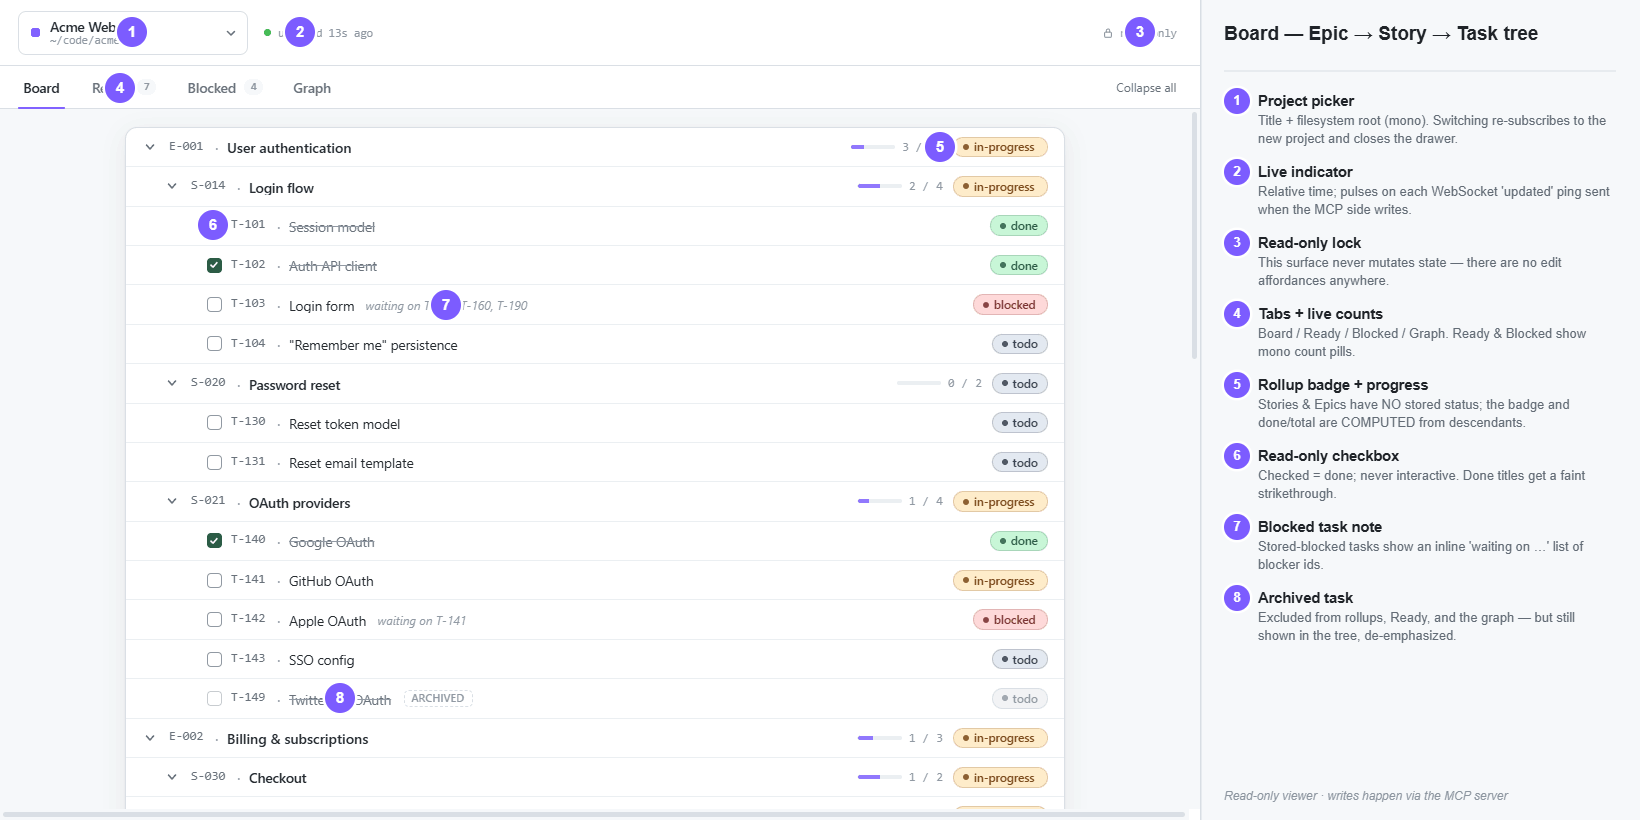
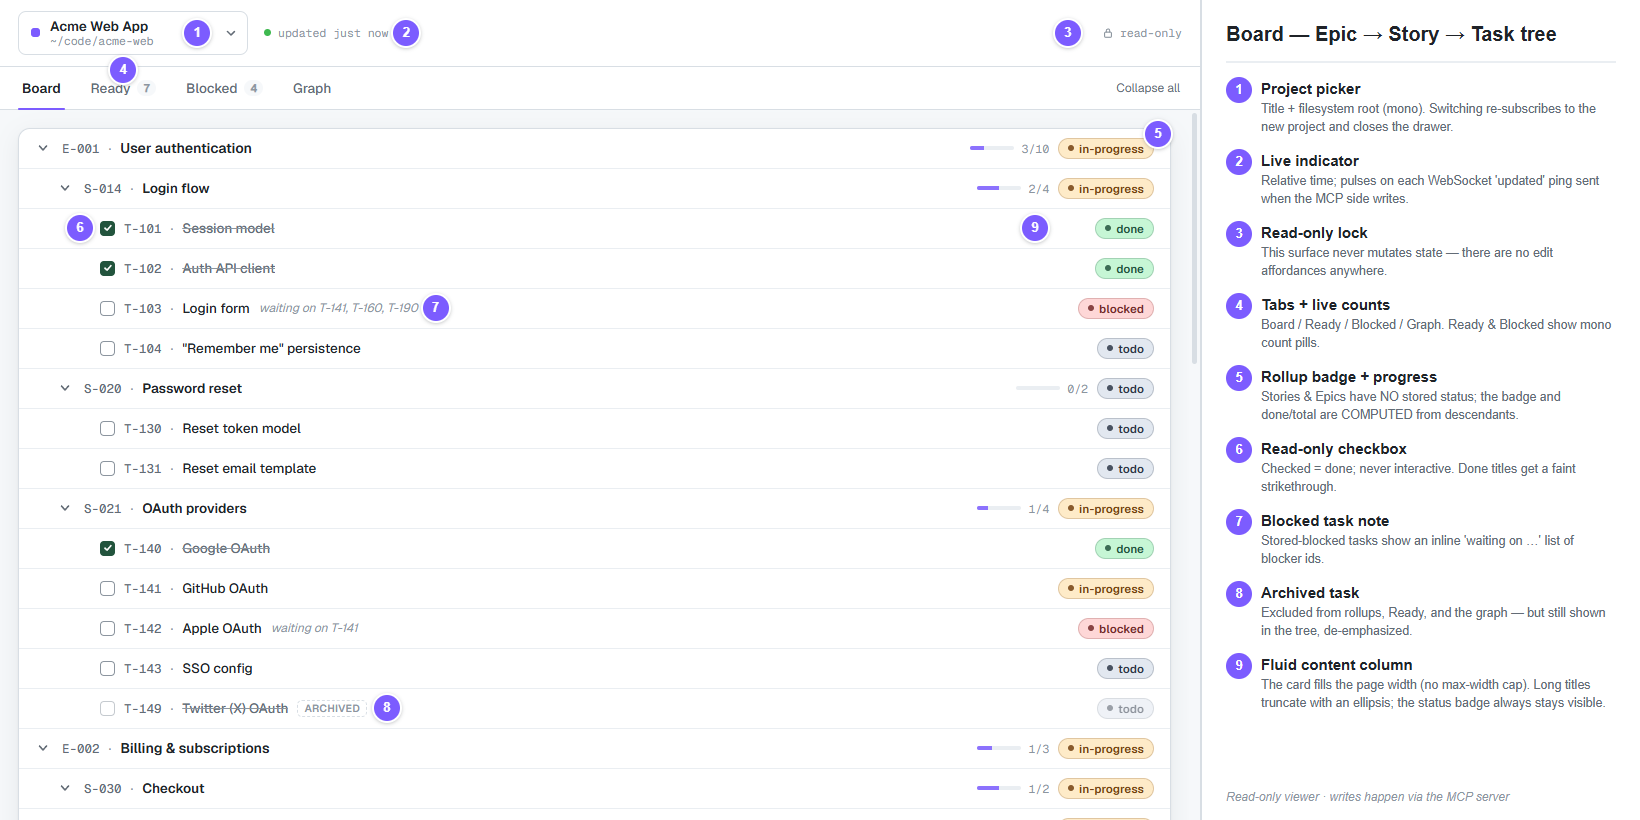
Update README and styles for fluid layout; adjust card widths and truncate long titles

diff --git a/design/ui-design/design_files/app.jsx b/design/ui-design/design_files/app.jsx
@@ -542,14 +542,14 @@ function App() {
       {/* Scroll region */}
       {tab === "graph" ? (
         <main style={{ flex: 1, minHeight: 0, padding: "18px 18px 22px" }}>
-          <div key={projectId} style={{ height: "100%", maxWidth: 1180, margin: "0 auto" }}>
+          <div key={projectId} style={{ height: "100%" }}>
             <GraphView projectId={projectId} dark={t.dark} accent={t.accent} onSelect={setSelectedId} />
           </div>
         </main>
       ) : (
         <main className="scroll" style={{ flex: 1, overflow: "auto", padding: "18px 18px 64px" }}>
           <div key={projectId + tab} style={{
-            maxWidth: 940, margin: "0 auto", background: "var(--bg)",
+            background: "var(--bg)",
             border: "1px solid var(--border)", borderRadius: 12, overflow: "hidden",
             boxShadow: "var(--shadow)",
           }}>

diff --git a/packages/ui/src/styles.css b/packages/ui/src/styles.css
@@ -393,8 +393,12 @@ button:disabled {
   padding: 18px 18px 64px;
 }
 
+/*
+ * The card fills the scroll area so it grows and shrinks with the page instead of stopping at a
+ * fixed cap. `.main-scroll` padding supplies the side gutters at every viewport width.
+ */
 .view-card {
-  width: min(940px, 100%);
+  width: 100%;
   margin: 0 auto;
   overflow: hidden;
   border: 1px solid var(--border);
@@ -403,8 +407,8 @@ button:disabled {
   box-shadow: var(--shadow);
 }
 
+/* The graph card inherits the full-width rule above and only adds a minimum canvas height. */
 .view-card-graph {
-  width: min(1180px, 100%);
   min-height: min(680px, calc(100vh - 164px));
 }
 

diff --git a/design/ui-design/README.md b/design/ui-design/README.md
@@ -229,7 +229,10 @@ hard-coded into the Mermaid `classDef`s and the SVG graph nodes — keep them in
 ### Radius / spacing
 - Cards & main containers: radius `12px`. Popovers: `10px`. Buttons/chips: `6–8px`. Pills/badges:
   `999px`. Checkbox: `4px`.
-- Main content column max-width `940px` (board/ready/blocked), `1180px` (graph), centered.
+- Main content column is fluid: it fills the main scroll region's width in every view
+  (board/ready/blocked/graph) and resizes with the page. No max-width cap; the scroll region's
+  `18px` side padding supplies the gutters. Long row titles truncate with an ellipsis so the
+  status badge always stays visible.
 - Row padding: `var(--row-py) 16px` with **left indent `16 + depth*22px`** per tree level.
 - Custom scrollbar (`.scroll`): `11px`, thumb `--border` with a `3px` `--canvas` border, hover
   `--fg-faint`.
@@ -244,7 +247,7 @@ hard-coded into the Mermaid `classDef`s and the SVG graph nodes — keep them in
 - **Tab bar** (`--bg`, bottom border): `Board` · `Ready`(count) · `Blocked`(count) · `Graph`.
   Active tab = `--fg` bold with a `2px` accent underline; counts are mono pills (accent-tinted when
   active). On the Board tab only, a right-aligned **"Collapse all / Expand all"** text button.
-- **Main scroll region** (`--canvas`): holds the active view's centered card.
+- **Main scroll region** (`--canvas`): holds the active view's full-width card.
 
 #### Project picker
 - Trigger button: small accent square + project title (`13.5/600`) + filesystem `root` (mono,
